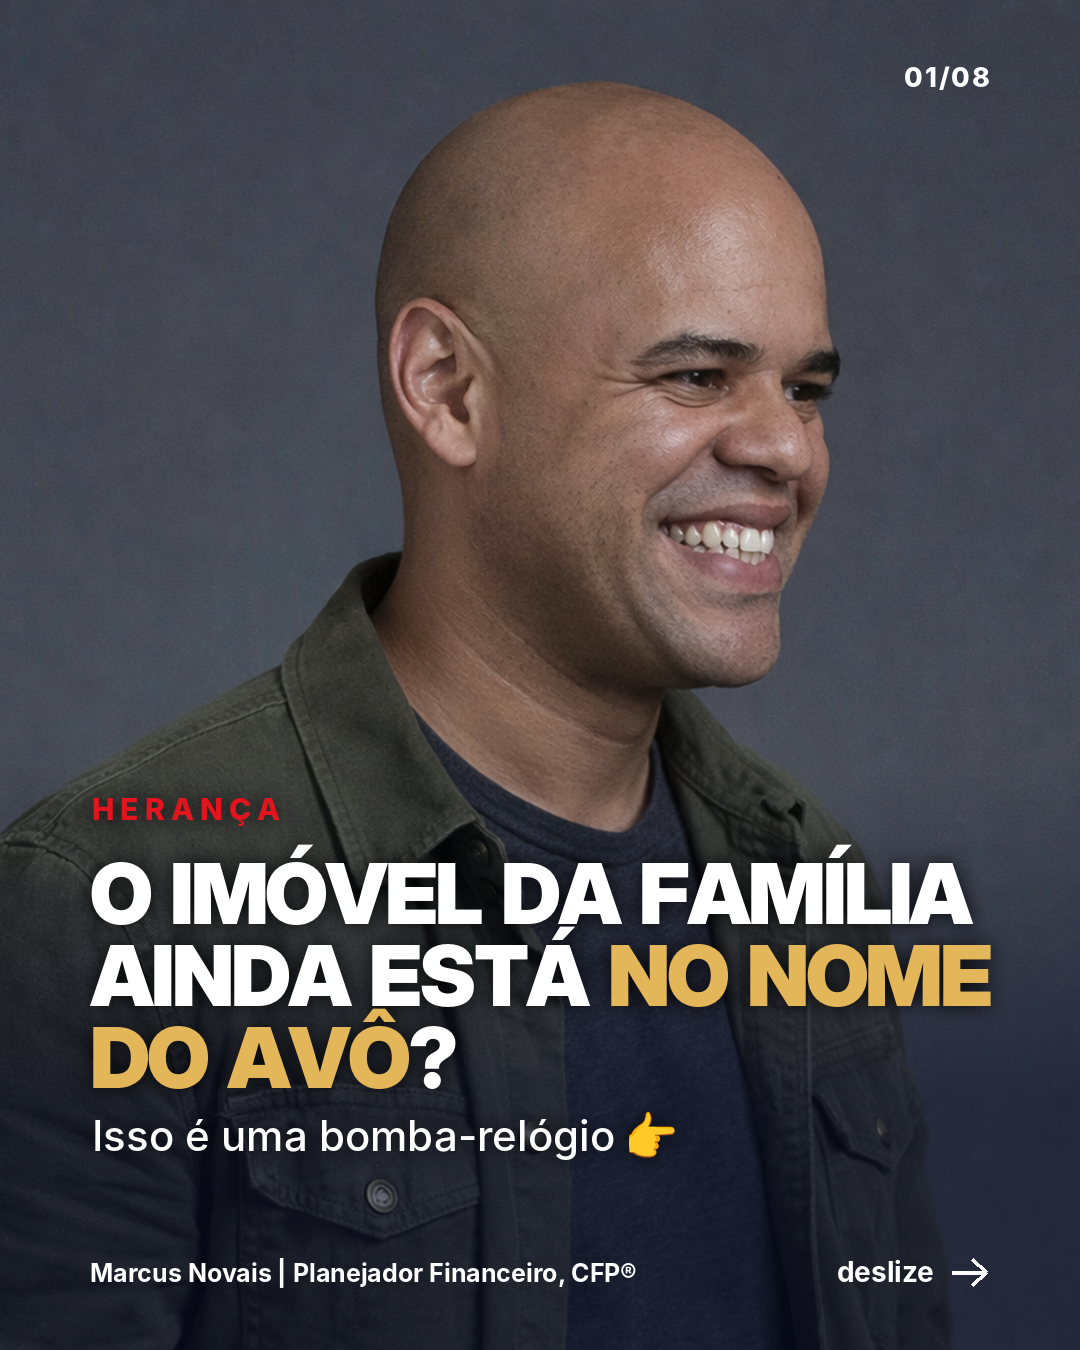
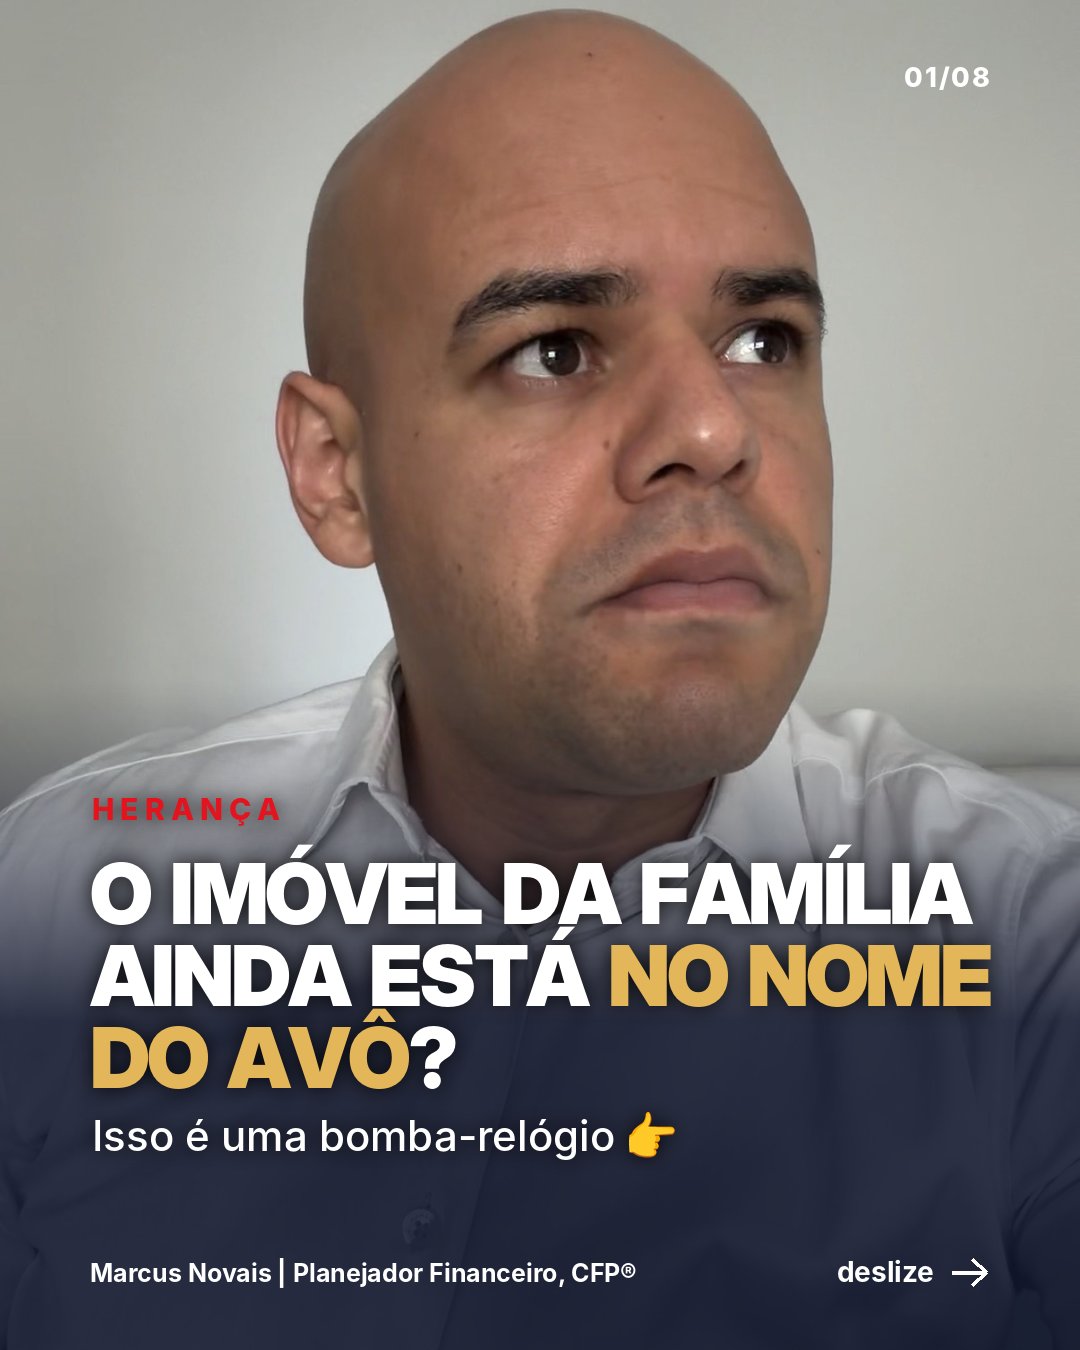
Usa nova foto nos slides 1 e 8 do carrossel de herança
Claude-Session: https://claude.ai/code/session_01JkBXj7bVeC85vzfDPDwbQR

diff --git a/posts/imovel-heranca/gerar.py b/posts/imovel-heranca/gerar.py
@@ -4,11 +4,11 @@ from marcus_slides import *
 
 OUT = os.path.dirname(os.path.abspath(__file__)) + "/"
 T = 8
-FOTO = HERE + "/fotos/marcus-estudio.png"
+FOTO = HERE + "/fotos/marcus-camisa-branca.png"
 
 
 def capa(path):
-    img = photo_light(FOTO, 760, 1100, 135)
+    img = photo_light(FOTO, 680, 1020, 215)
     def txt(layer, d):
         y = kicker(d, "Herança", 92, 790, RED)
         y = rich(d, "O imóvel da família ainda está [g]no nome do avô[/g]?", 90, y, 920, TITLE(84), TITLE(84), 82,
@@ -22,7 +22,7 @@ def capa(path):
 
 
 def cta(path):
-    img = photo_light(FOTO, 760, 1100, 135)
+    img = photo_light(FOTO, 680, 1020, 215)
     def txt(layer, d):
         y = rich(d, "Quer organizar o patrimônio da sua família [g]antes que vire problema[/g]?", 90, 820, 920,
                  TITLE(76), TITLE(76), 74, WHITE, GOLD_DARK, RED, tracking=-3, upper=True)

diff --git a/modelo/README.md b/modelo/README.md
@@ -27,6 +27,6 @@
 No texto: `[g]dourado[/g]`, `[r]vermelho[/r]`, `**negrito**`.
 
 ## Preferências do Marcus
-- **Foto:** a foto ocupa o slide INTEIRO, com transparência mínima: só um degradê leve na base, e o texto ganha sombra para ficar legível. Use a função `photo_light()`. Fotos sem texto embutido ficam em `fotos/` (ex.: `marcus-estudio.png`).
+- **Foto:** a foto ocupa o slide INTEIRO, com transparência mínima: só um degradê leve na base, e o texto ganha sombra para ficar legível. Use a função `photo_light()`. Fotos sem texto embutido ficam em `fotos/` (`marcus-estudio.png`, `marcus-camisa-branca.png`). Com camisa clara, use degradê um pouco mais forte só na base (ex.: `photo_light(foto, 680, 1020, 215)`) para o texto ficar legível.
 - **Gráficos animados:** quando a capa tiver dado (por exemplo, a cotação do dólar), a capa pode ser o gráfico animado com o título, em vez da foto. Nesse caso, a foto vai para o slide 2.
 - **Sem aviso nem fontes nos slides:** não colocar "conteúdo educativo" nem as fontes dentro dos slides. O aviso pode ficar na legenda.
